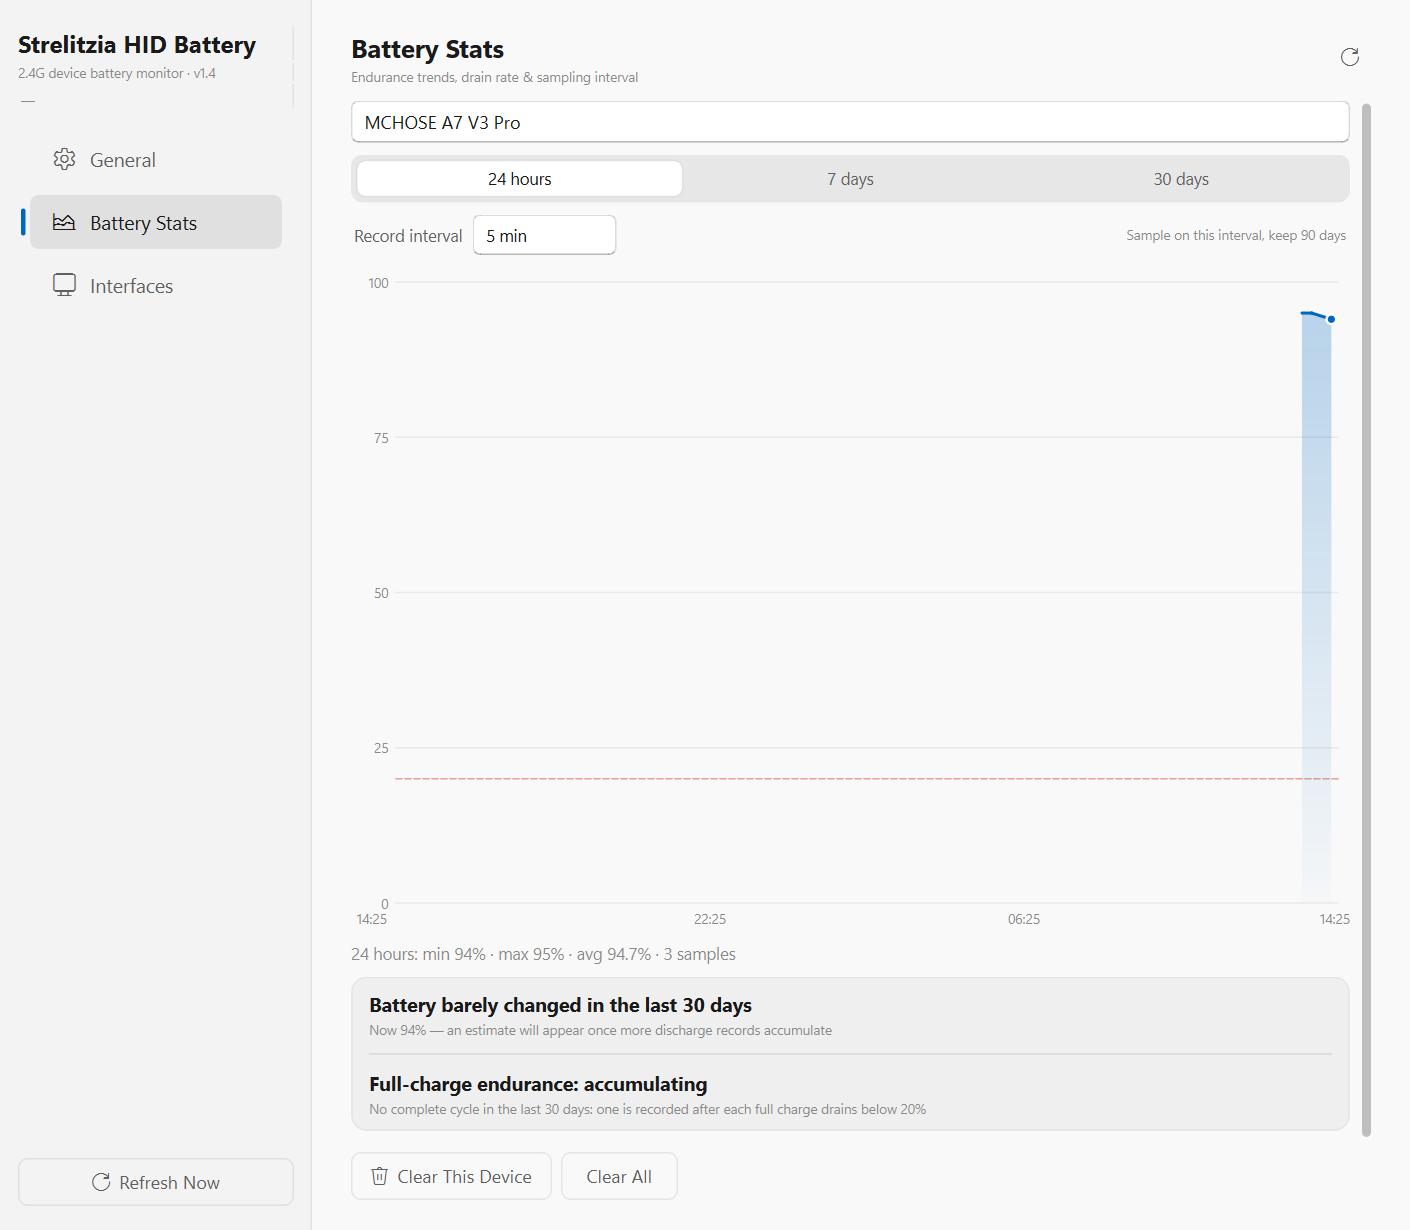
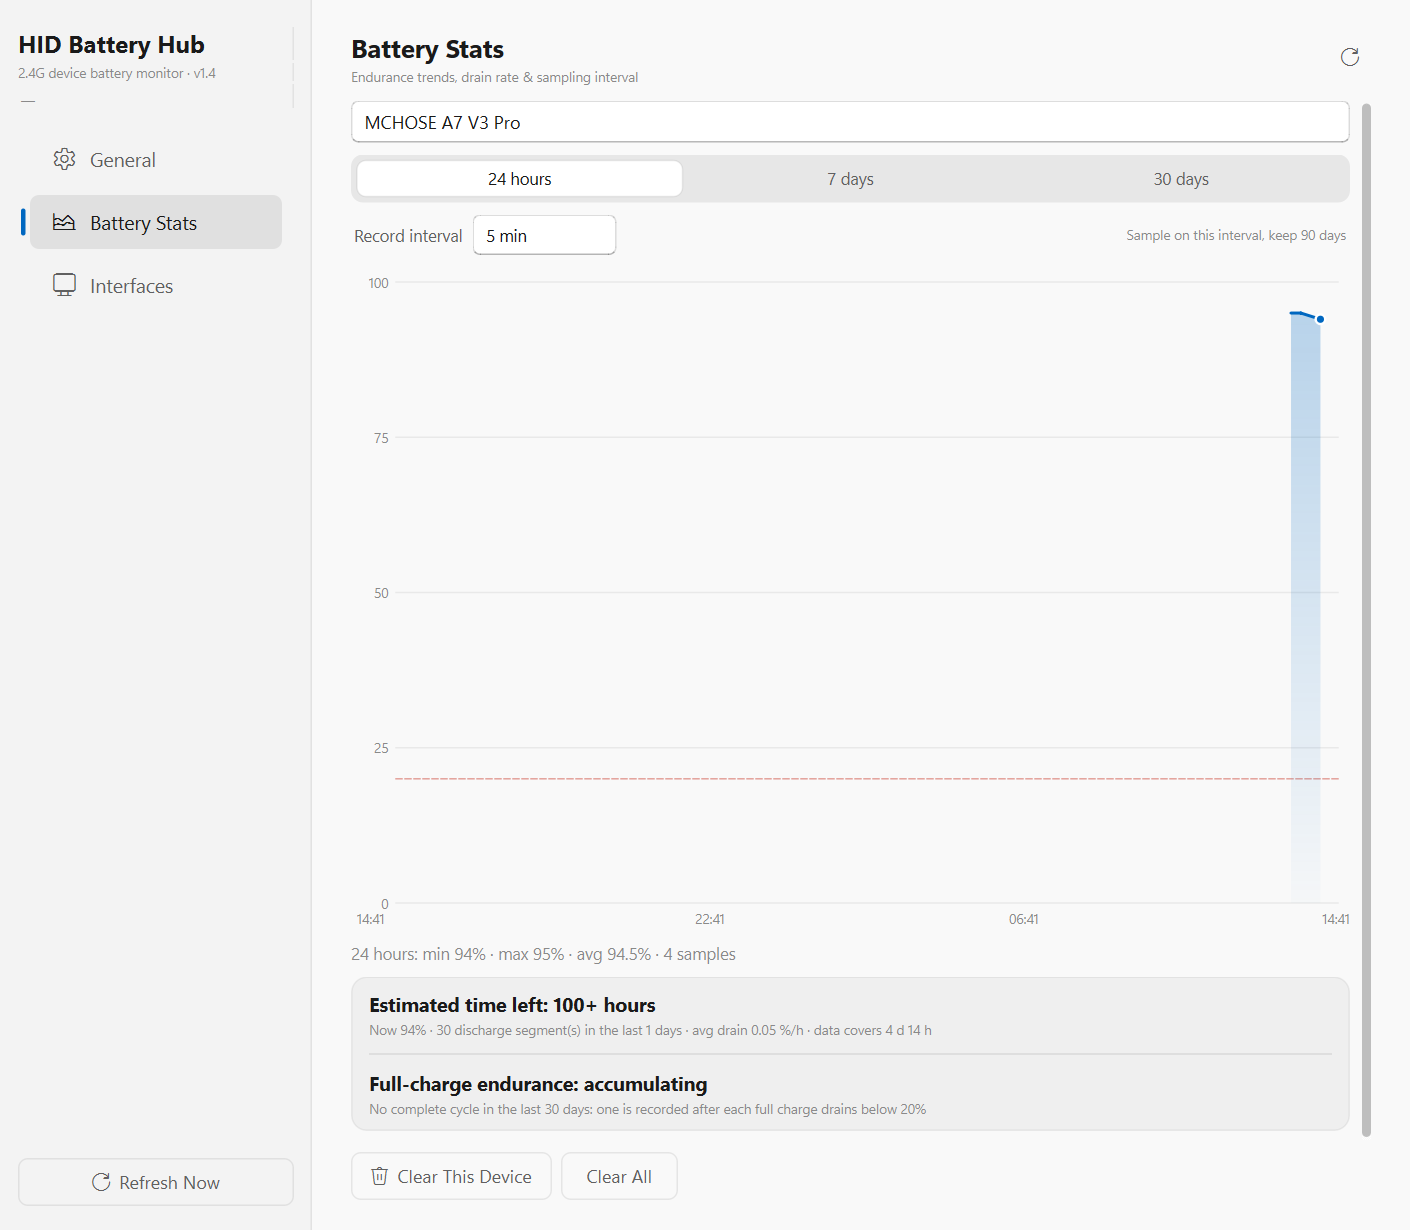
feat(brand): 更名 HID Battery Hub，同步新仓库 HID-battery-hub
- 产品名 Strelitzia HID Battery → HID Battery Hub
- EXE / 注册表启动项 / 数据目录统一 HIDBatteryHub，旧版启动项与 %LOCALAPPDATA% 目录自动沿用
- 接入包 kind 改为 hid-battery-hub-profile（导入不校验 kind，旧包仍可用）
- README 中英 / CHANGELOG / 文档链接 / 打包发布脚本仓库名同步
- 重新生成中英界面截图

diff --git a/app/autostart.py b/app/autostart.py
@@ -13,7 +13,7 @@ except ImportError:                                # pragma: no cover - 非 Wind
 
 RUN_KEY = r"Software\Microsoft\Windows\CurrentVersion\Run"
 VALUE_NAME = branding.REG_KEY_VALUE
-LEGACY_VALUE = "HIDBattery"                        # 旧版写入的项，切换时顺手清掉
+LEGACY_VALUES = ("StrelitziaHIDBattery", "HIDBattery")   # 旧版写入的项，切换时顺手清掉
 
 
 def command() -> str:
@@ -28,12 +28,12 @@ def command() -> str:
 
 
 def current() -> str:
-    """注册表里当前的启动命令，没有则空串（兼容旧版 HIDBattery 项）。"""
+    """注册表里当前的启动命令，没有则空串（兼容旧版留下的启动项）。"""
     if winreg is None:
         return ""
     try:
         with winreg.OpenKey(winreg.HKEY_CURRENT_USER, RUN_KEY) as key:
-            for name in (VALUE_NAME, LEGACY_VALUE):
+            for name in (VALUE_NAME, *LEGACY_VALUES):
                 try:
                     value, _ = winreg.QueryValueEx(key, name)
                     return str(value)
@@ -57,12 +57,13 @@ def set_enabled(enabled: bool) -> bool:
                             winreg.KEY_SET_VALUE) as key:
             if enabled:
                 winreg.SetValueEx(key, VALUE_NAME, 0, winreg.REG_SZ, command())
-                try:                                # 清理旧版同名项，避免开机起两个
-                    winreg.DeleteValue(key, LEGACY_VALUE)
-                except FileNotFoundError:
-                    pass
+                for name in LEGACY_VALUES:      # 清理旧版同名项，避免开机起两个
+                    try:
+                        winreg.DeleteValue(key, name)
+                    except FileNotFoundError:
+                        pass
             else:
-                for name in (VALUE_NAME, LEGACY_VALUE):
+                for name in (VALUE_NAME, *LEGACY_VALUES):
                     try:
                         winreg.DeleteValue(key, name)
                     except FileNotFoundError:

diff --git a/app/paths.py b/app/paths.py
@@ -3,14 +3,14 @@
 PyInstaller 单文件模式会把代码解到临时目录（sys._MEIPASS，退出即删），
 配置、图标、插件、历史库不能放那里，必须落在 **EXE 旁边**：
 
-    StrelitziaHIDBattery.exe
+    HIDBatteryHub.exe
     config/profiles.json     接口配置
     protocols/*.py           AI/手工加进来的协议插件（启动时自动加载）
     assets/icons/            用户上传的设备图标
     data/history.db          电量历史
 
 若 EXE 被放到 Program Files 这类不可写目录，则整棵目录退回到
-%LOCALAPPDATA%\\StrelitziaHIDBattery（`USING_EXE_DIR` 为 False，界面会标注原因）。
+%LOCALAPPDATA%\\HIDBatteryHub（`USING_EXE_DIR` 为 False，界面会标注原因）。
 """
 from __future__ import annotations
 
@@ -40,12 +40,13 @@ def _writable(path: str) -> bool:
 
 
 def _fallback_dir() -> str:
-    """EXE 目录不可写时的备用目录；兼容旧版留下的 HIDBattery 文件夹。"""
+    """EXE 目录不可写时的备用目录；兼容旧版留下的数据目录（StrelitziaHIDBattery / HIDBattery）。"""
     base = os.environ.get("LOCALAPPDATA") or os.path.expanduser("~")
     new = os.path.join(base, branding.DATA_FOLDER)
-    old = os.path.join(base, "HIDBattery")
-    if not os.path.isdir(new) and os.path.isdir(old):
-        return old
+    olds = [os.path.join(base, name) for name in ("StrelitziaHIDBattery", "HIDBattery")]
+    for old in olds:
+        if not os.path.isdir(new) and os.path.isdir(old):
+            return old
     return new
 
 
@@ -72,7 +73,7 @@ _README = """\
 
 接入包格式：
 {
-  "kind": "strelitzia-hid-battery-profile",
+  "kind": "hid-battery-hub-profile",
   "version": 1,
   "protocol": { "filename": "vendor_protocol.py", "code_lines": ["from __future__ import annotations", "..."] },
   "profile":  { "id": "vendor-protocol", "name": "厂商 · 协议", "vendor_id": 14391,

diff --git a/tools/publish_release.py b/tools/publish_release.py
@@ -104,7 +104,7 @@ def release_body(assets: list[Path]) -> str:
     if sec:
         lines += [sec, ""]
     lines += ["## 下载", "",
-              f"- `{assets[0].name}`：解压后双击 `StrelitziaHIDBattery.exe` 即用；"
+              f"- `{assets[0].name}`：解压后双击 `{EXE_STEM}.exe` 即用；"
               "首次运行会在 EXE 旁边生成 `config/ protocols/ assets/ data/`。",
               ]
     for extra in assets[1:]:
@@ -114,8 +114,8 @@ def release_body(assets: list[Path]) -> str:
         size = a.stat().st_size
         size_txt = f"{size / 1048576:.1f} MB" if size > 1048576 else f"{size / 1024:.0f} KB"
         lines.append(f"| `{a.name}` | {size_txt} | `{sha256(a)[:16].upper()}` |")
-    lines += ["", "完整变更见 [CHANGELOG.md](https://github.com/StrelitziaZYN/HID-Battery/blob/main/CHANGELOG.md)，"
-              "使用与疑难解答见 [README.md](https://github.com/StrelitziaZYN/HID-Battery#readme)。"]
+    lines += ["", "完整变更见 [CHANGELOG.md](https://github.com/StrelitziaZYN/HID-battery-hub/blob/main/CHANGELOG.md)，"
+              "使用与疑难解答见 [README.md](https://github.com/StrelitziaZYN/HID-battery-hub#readme)。"]
     return "\n".join(lines)
 
 
@@ -131,7 +131,7 @@ def main() -> int:
     ap = argparse.ArgumentParser()
     ap.add_argument("--token", default=os.environ.get("GITHUB_TOKEN", ""))
     ap.add_argument("--owner", default="StrelitziaZYN")
-    ap.add_argument("--repo", default="HID-Battery")
+    ap.add_argument("--repo", default="HID-battery-hub")
     ap.add_argument("--tag", default=f"v{VERSION}")
     args = ap.parse_args()
 

diff --git a/tools/selftest.py b/tools/selftest.py
@@ -242,8 +242,8 @@ def t_data_dir():
     old = (settings_page.DATA_DIR, settings_page.DATA_DIR_NOTE,
            settings_page.USING_EXE_DIR)
     try:                                           # 回退分支必须写清原因
-        settings_page.DATA_DIR = os.path.join("X:", "用户目录", "StrelitziaHIDBattery")
-        settings_page.DATA_DIR_NOTE = "EXE 目录不可写，已切换到 X:\\用户目录\\StrelitziaHIDBattery"
+        settings_page.DATA_DIR = os.path.join("X:", "用户目录", "HIDBatteryHub")
+        settings_page.DATA_DIR_NOTE = "EXE 目录不可写，已切换到 X:\\用户目录\\HIDBatteryHub"
         settings_page.USING_EXE_DIR = False
         text = settings_page.InterfaceSettingsPage._data_hint_text()
         assert "已切换" in text, f"回退文案缺少原因：{text}"
@@ -270,7 +270,7 @@ def t_branding():
     """产品名单一来源：界面/托盘/打包都取同一个常量。"""
     from app import profiles
 
-    assert branding.APP_NAME == "Strelitzia HID Battery", branding.APP_NAME
+    assert branding.APP_NAME == "HID Battery Hub", branding.APP_NAME
     assert branding.EXE_STEM.isalnum(), "EXE 名不应含空格等特殊字符"
     assert branding.EXE_STEM in branding.REG_KEY_VALUE
     assert profiles.PROFILE_PATH.endswith("profiles.json")

diff --git a/app/branding.py b/app/branding.py
@@ -1,20 +1,20 @@
 """产品名称与版本：所有界面、托盘、打包脚本都从这里取，改名只改一处。"""
 from __future__ import annotations
 
-APP_NAME = "Strelitzia HID Battery"
-APP_SHORT = "Strelitzia"
+APP_NAME = "HID Battery Hub"
+APP_SHORT = "HIDBatteryHub"
 TAGLINE = "2.4G 设备电量监测"
 VERSION = "1.4"
 
 # EXE / 图标 / 注册表项统一用无空格标识
-EXE_STEM = "StrelitziaHIDBattery"
-REG_KEY_VALUE = "StrelitziaHIDBattery"
+EXE_STEM = "HIDBatteryHub"
+REG_KEY_VALUE = "HIDBatteryHub"
 
 # 数据目录名（EXE 同目录可写时直接用 EXE 目录，否则退回 %LOCALAPPDATA%\<这个>）
-DATA_FOLDER = "StrelitziaHIDBattery"
+DATA_FOLDER = "HIDBatteryHub"
 
 # 接入包（AI 产出的 JSON）标识
-BUNDLE_KIND = "strelitzia-hid-battery-profile"
+BUNDLE_KIND = "hid-battery-hub-profile"
 
 
 def window_title(suffix: str = "") -> str:

diff --git a/tools/smoke.py b/tools/smoke.py
@@ -99,7 +99,7 @@ def step2():
     text = dlg.text.toPlainText()
     print("prompt dialog: devices =", dlg.combo.count(),
           "| lines =", len(text.splitlines()),
-          "| bundle 格式:", "strelitzia-hid-battery-profile" in text,
+          "| bundle 格式:", "hid-battery-hub-profile" in text,
           "| code_lines:", "code_lines" in text)
     dlg.grab().save(os.path.join(OUT, "live_prompt.png"))
     dlg.close()
@@ -173,7 +173,7 @@ def step2():
     plugin_file = os.path.join(plugin_store.PLUGIN_DIR, "smoke_bundle.py")
     try:
         bundle = {
-            "kind": "strelitzia-hid-battery-profile",
+            "kind": "hid-battery-hub-profile",
             "version": 1,
             "protocol": {"filename": "smoke_bundle.py", "code_lines": [
                 "from __future__ import annotations",

diff --git a/tools/build_exe.py b/tools/build_exe.py
@@ -3,7 +3,7 @@
 用法：
     python tools/build_exe.py
 
-产物：dist/StrelitziaHIDBattery.exe —— 双击即用。运行期目录（都在 EXE 旁边）：
+产物：dist/HIDBatteryHub.exe —— 双击即用。运行期目录（都在 EXE 旁边）：
 
     config/profiles.json     接口配置
     protocols/               AI 接入包装好的用户插件（自动加载）
@@ -72,7 +72,7 @@ def write_version_file(path: str) -> str:
         stem=branding.EXE_STEM,
         desc=f"{branding.APP_NAME} · {branding.TAGLINE}",
         company=branding.APP_NAME,
-        copyright="Copyright (c) 2026 Strelitzia",
+        copyright="Copyright (c) 2026 StrelitziaZYN",
     )
     with open(path, "w", encoding="utf-8") as fh:
         fh.write(text)

diff --git a/tools/push_github.py b/tools/push_github.py
@@ -2,7 +2,7 @@
 
 用法：
     set GITHUB_TOKEN=ghp_xxx && python tools/push_github.py
-    python tools/push_github.py --token ghp_xxx            # 默认推 StrelitziaZYN/HID-Battery
+    python tools/push_github.py --token ghp_xxx            # 默认推 StrelitziaZYN/HID-battery-hub
 
 做的事：
     1. GET  /user                    确认 token 身份
@@ -54,7 +54,7 @@ def main() -> int:
     ap = argparse.ArgumentParser()
     ap.add_argument("--token", default=os.environ.get("GITHUB_TOKEN", ""))
     ap.add_argument("--owner", default="StrelitziaZYN")
-    ap.add_argument("--repo", default="HID-Battery")
+    ap.add_argument("--repo", default="HID-battery-hub")
     ap.add_argument("--private", default="1")
     args = ap.parse_args()
 

diff --git a/tools/make_ico.py b/tools/make_ico.py
@@ -71,5 +71,5 @@ def make_icon(path: str, sizes=SIZES) -> str:
 
 
 if __name__ == "__main__":
-    target = sys.argv[1] if len(sys.argv) > 1 else os.path.join("build", "StrelitziaHIDBattery.ico")
+    target = sys.argv[1] if len(sys.argv) > 1 else os.path.join("build", "HIDBatteryHub.ico")
     print("icon ->", make_icon(target), os.path.getsize(target), "bytes")

diff --git a/tools/make_release.py b/tools/make_release.py
@@ -1,6 +1,6 @@
 """把当前工作区整理成一份可归档、可分发的产物包。
 
-产物结构（release/StrelitziaHIDBattery_v<版本>_<日期>/）：
+产物结构（release/HIDBatteryHub_v<版本>_<日期>/）：
 
     src/         源码（main.py、app/、tools/、requirements.txt、启动.bat）
     docs/        README、CHANGELOG、归档说明

diff --git a/main.py b/main.py
@@ -1,4 +1,4 @@
-"""Strelitzia HID Battery —— 2.4G 设备电量监测（程序入口）。"""
+"""HID Battery Hub —— 2.4G 设备电量监测（程序入口）。"""
 from __future__ import annotations
 
 import copy

diff --git a/README.en.md b/README.en.md
@@ -1,4 +1,4 @@
-# Strelitzia HID Battery
+# HID Battery Hub
 
 **English** | [中文](README.md)
 
@@ -6,7 +6,7 @@ A tiny Windows tray utility that reads the **battery level** of wireless mice, k
 
 Single portable EXE — unzip and run. No drivers, no administrator rights.
 
-Current version **v1.4** · [Download the latest release](https://github.com/StrelitziaZYN/HID-Battery/releases/latest)
+Current version **v1.4** · [Download the latest release](https://github.com/StrelitziaZYN/HID-battery-hub/releases/latest)
 
 ## Features
 
@@ -40,7 +40,7 @@ Interfaces:
 
 ## Download & run
 
-Grab the latest `win64.zip` from [Releases](https://github.com/StrelitziaZYN/HID-Battery/releases/latest), unzip it and double-click `StrelitziaHIDBattery.exe`.
+Grab the latest `win64.zip` from [Releases](https://github.com/StrelitziaZYN/HID-battery-hub/releases/latest), unzip it and double-click `HIDBatteryHub.exe`.
 On first launch the app creates `config/ protocols/ assets/ data/` next to the EXE, so the EXE alone is enough when you move to another PC.
 To take your settings and history with you, copy the whole folder.
 
@@ -73,7 +73,7 @@ It needs one complete **full charge → drain below 20%** cycle, and the cycle m
 
 **Where is my data stored?**
 By default right next to the EXE: `config/` (profiles), `protocols/` (plugins), `assets/icons/` (device icons), `data/history.db` (battery history). The bottom of the Interfaces page shows the real paths and has an **Open Data Folder** button.
-Only when the EXE sits in a non-writable folder (for example `C:\Program Files`) does everything move to `%LOCALAPPDATA%\StrelitziaHIDBattery`, and the UI says so explicitly.
+Only when the EXE sits in a non-writable folder (for example `C:\Program Files`) does everything move to `%LOCALAPPDATA%\HIDBatteryHub`, and the UI says so explicitly.
 
 **How do I turn off auto-start?**
 Use *General → Start with Windows*, or the **Launch at Startup** item in the tray context menu — the two stay in sync. It writes to the current user's `HKCU\...\Run` key, so no admin rights are needed.
